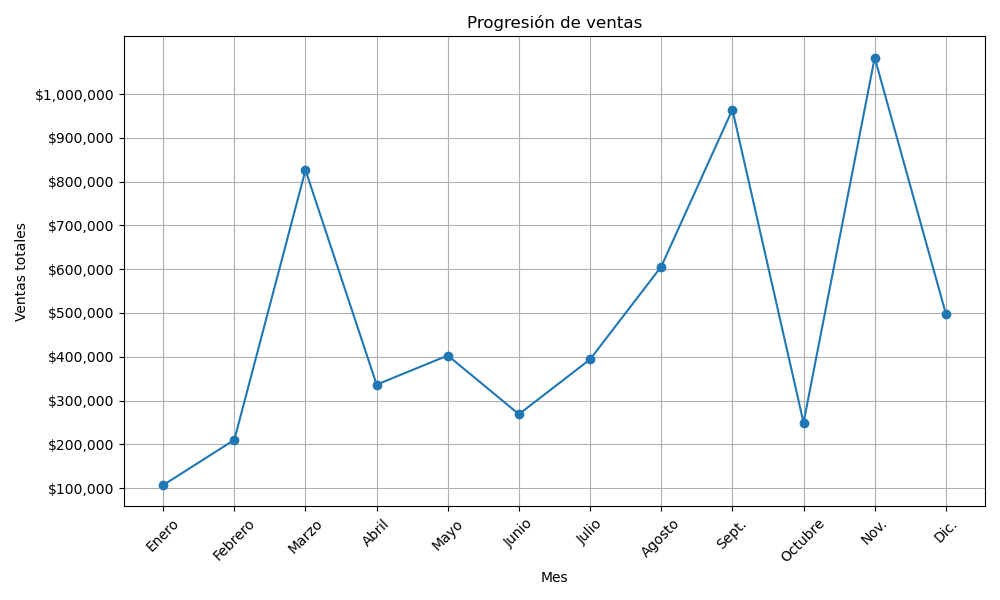
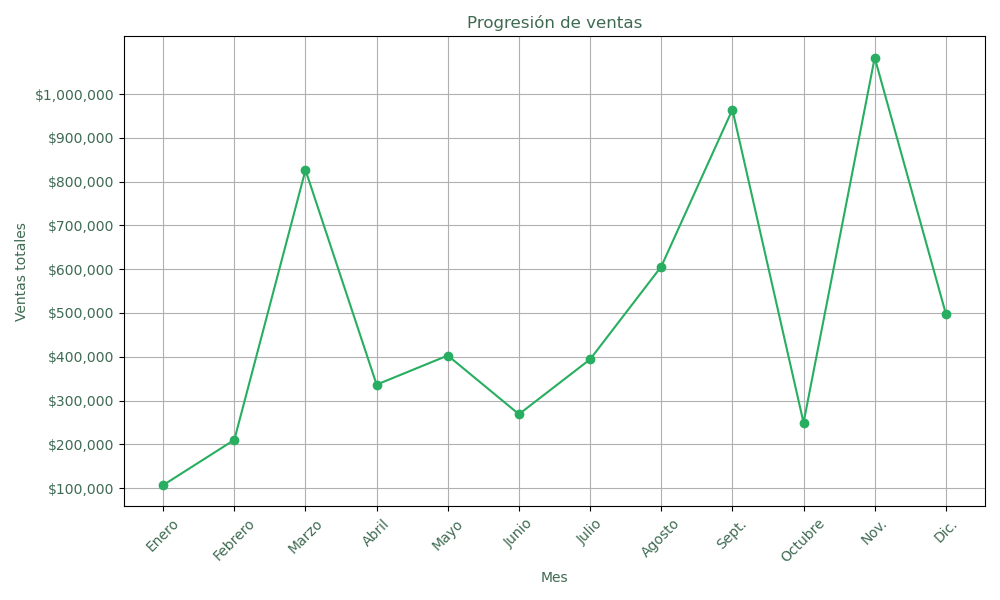
changed colors and

diff --git a/frontend/src/components/analitics.jsx b/frontend/src/components/analitics.jsx
@@ -118,12 +118,34 @@ const Analitics = () => {
           <Card.Text>
             {data.length > 0 ? (
               <>
-                <Card>
+                <Card style={{ backgroundColor: "#ffffff", color: "#333", fontSize: 15, textAlign: "center", padding: "20px", borderRadius: '10px', boxShadow: '0 0 10px rgba(0, 0, 0, 0.1)', }}>
+                  <Card.Title>
+                    <h4>Grafica anual - Ventas</h4>
+                  </Card.Title>
+                  <Card.Text>
+                    <img
+                      src={`http://localhost:8000/get_anual_sales_line_graph_image`}
+                      alt="Anual Sales Graph"
+                      style={{ width: '90%' }}
+                    />
+                  </Card.Text>
+                </Card>
+                <br />
+                <br />
+                <Card style={{ backgroundColor: "#ffffff", color: "#333", fontSize: 15, textAlign: "center", padding: "20px", borderRadius: '10px', boxShadow: '0 0 10px rgba(0, 0, 0, 0.1)', }}>
                   <Card.Title>
                     <h4>Grafica Mensual - Tipo de Venta</h4>
                   </Card.Title>
                   <Card.Subtitle>
-                    <MonthSelector selectedMonth={selectedMonth} onSelectMonth={setSelectedMonth} />
+                    <div style={{
+                      display: 'flex',
+                      justifyContent: 'center',
+                      width: '100%',
+                      margin: '0 auto', // This will center the div horizontally
+                    }}
+                    >
+                      <MonthSelector selectedMonth={selectedMonth} onSelectMonth={setSelectedMonth} />
+                    </div>
                   </Card.Subtitle>
                   <Card.Text>
                     <div style={{ width: '100%', height: 600 }}>
@@ -140,7 +162,7 @@ const Analitics = () => {
                           {console.log(filterDataByMonthAndTipoVenta(selectedMonth))}
                           <CartesianGrid stroke="#3E6A51" />
                           <XAxis dataKey="total_tipo_venta" stroke="#3E6A51" />
-                          <YAxis scale={'sqrt'} />
+                          <YAxis scale={'sqrt'} tickCount={15} tickFormatter={(value) => `$${value.toLocaleString()}`} />
                           <Tooltip />
                           <Legend />
                           <Bar dataKey="utilidad_total" barSize={30} fill="#2986cc" />
@@ -150,7 +172,9 @@ const Analitics = () => {
                     </div>
                   </Card.Text>
                 </Card>
-                <Card>
+                <br />
+                <br />
+                <Card style={{ backgroundColor: "#ffffff", color: "#333", fontSize: 15, textAlign: "center", padding: "20px", borderRadius: '10px', boxShadow: '0 0 10px rgba(0, 0, 0, 0.1)', }}>
                   <Card.Title>
                     <h4>Grafica anual - Tipo de Venta</h4>
                   </Card.Title>
@@ -165,13 +189,13 @@ const Analitics = () => {
                             top: 20,
                             right: 20,
                             bottom: 20,
-                            left: 20,
+                            left: 30,
                           }}
                         >
                           {console.log(chartData)}
                           <CartesianGrid stroke="#3E6A51" />
                           <XAxis dataKey="total_tipo_venta" stroke="#3E6A51" />
-                          <YAxis domain={[0, 200000]} scale={'sqrt'} />
+                          <YAxis domain={[0, 200000]} scale={'sqrt'} tickCount={15} tickFormatter={(value) => `$${value.toLocaleString()}`} />
                           <Tooltip />
                           <Legend />
                           <Bar dataKey="utilidad_total" barSize={30} fill="#2986cc" />
@@ -179,18 +203,6 @@ const Analitics = () => {
                         </ComposedChart>
                       </ResponsiveContainer>
                     </div>
-                  </Card.Text>
-                </Card>
-                <Card>
-                  <Card.Title>
-                    <h4>Grafica anual - Ventas</h4>
-                  </Card.Title>
-                  <Card.Text>
-                    <img
-                      src={`http://localhost:8000/get_anual_sales_line_graph_image`}
-                      alt="Anual Sales Graph"
-                      style={{ width: '100%' }}
-                    />
                   </Card.Text>
                 </Card>
               </>

diff --git a/frontend/src/components/monthSelect.jsx b/frontend/src/components/monthSelect.jsx
@@ -21,7 +21,7 @@ const MonthSelector = ({ selectedMonth, onSelectMonth }) => {
     <Form.Group>
       <Form.Label>Select Month:</Form.Label>
       <Form.Control as="select" value={selectedMonth} onChange={(e) => onSelectMonth(e.target.value)}>
-        <option value="">All Months</option>
+        <option value="">Select Month</option>
         {Object.keys(monthNames).map((month) => (
           <option key={month} value={month}>
             {monthNames[month]}

diff --git a/backend/src/app.py b/backend/src/app.py
@@ -383,14 +383,14 @@ def anual_sales_line_graph():
     months = ['Enero', 'Febrero', 'Marzo', 'Abril', 'Mayo', 'Junio', 'Julio', 'Agosto', 'Sept.', 'Octubre', 'Nov.', 'Dic.']
 
     plt.figure(figsize=(10, 6))  
-    plt.plot(months, monthly_totals, marker='o')
-    plt.title('Progresión de ventas')
-    plt.xlabel('Mes')
-    plt.ylabel('Ventas totales')
+    plt.plot(months, monthly_totals, marker='o', color='#27ae60')
+    plt.title('Progresión de ventas' , color='#3E6A51')
+    plt.xlabel('Mes', color='#3E6A51')
+    plt.ylabel('Ventas totales', color='#3E6A51')
     plt.grid(True)
 
     plt.yticks(range(100000, 1000001, 100000), ['$100,000', '$200,000', '$300,000', '$400,000', '$500,000', '$600,000', '$700,000', '$800,000', '$900,000', '$1,000,000'])
-    plt.xticks(rotation=45)
+    plt.xticks(rotation=45, color='#3E6A51')
 
     dot_indices = [0, 1, 2, 3, 4, 5, 6, 7, 8, 9, 10, 11]  
 
